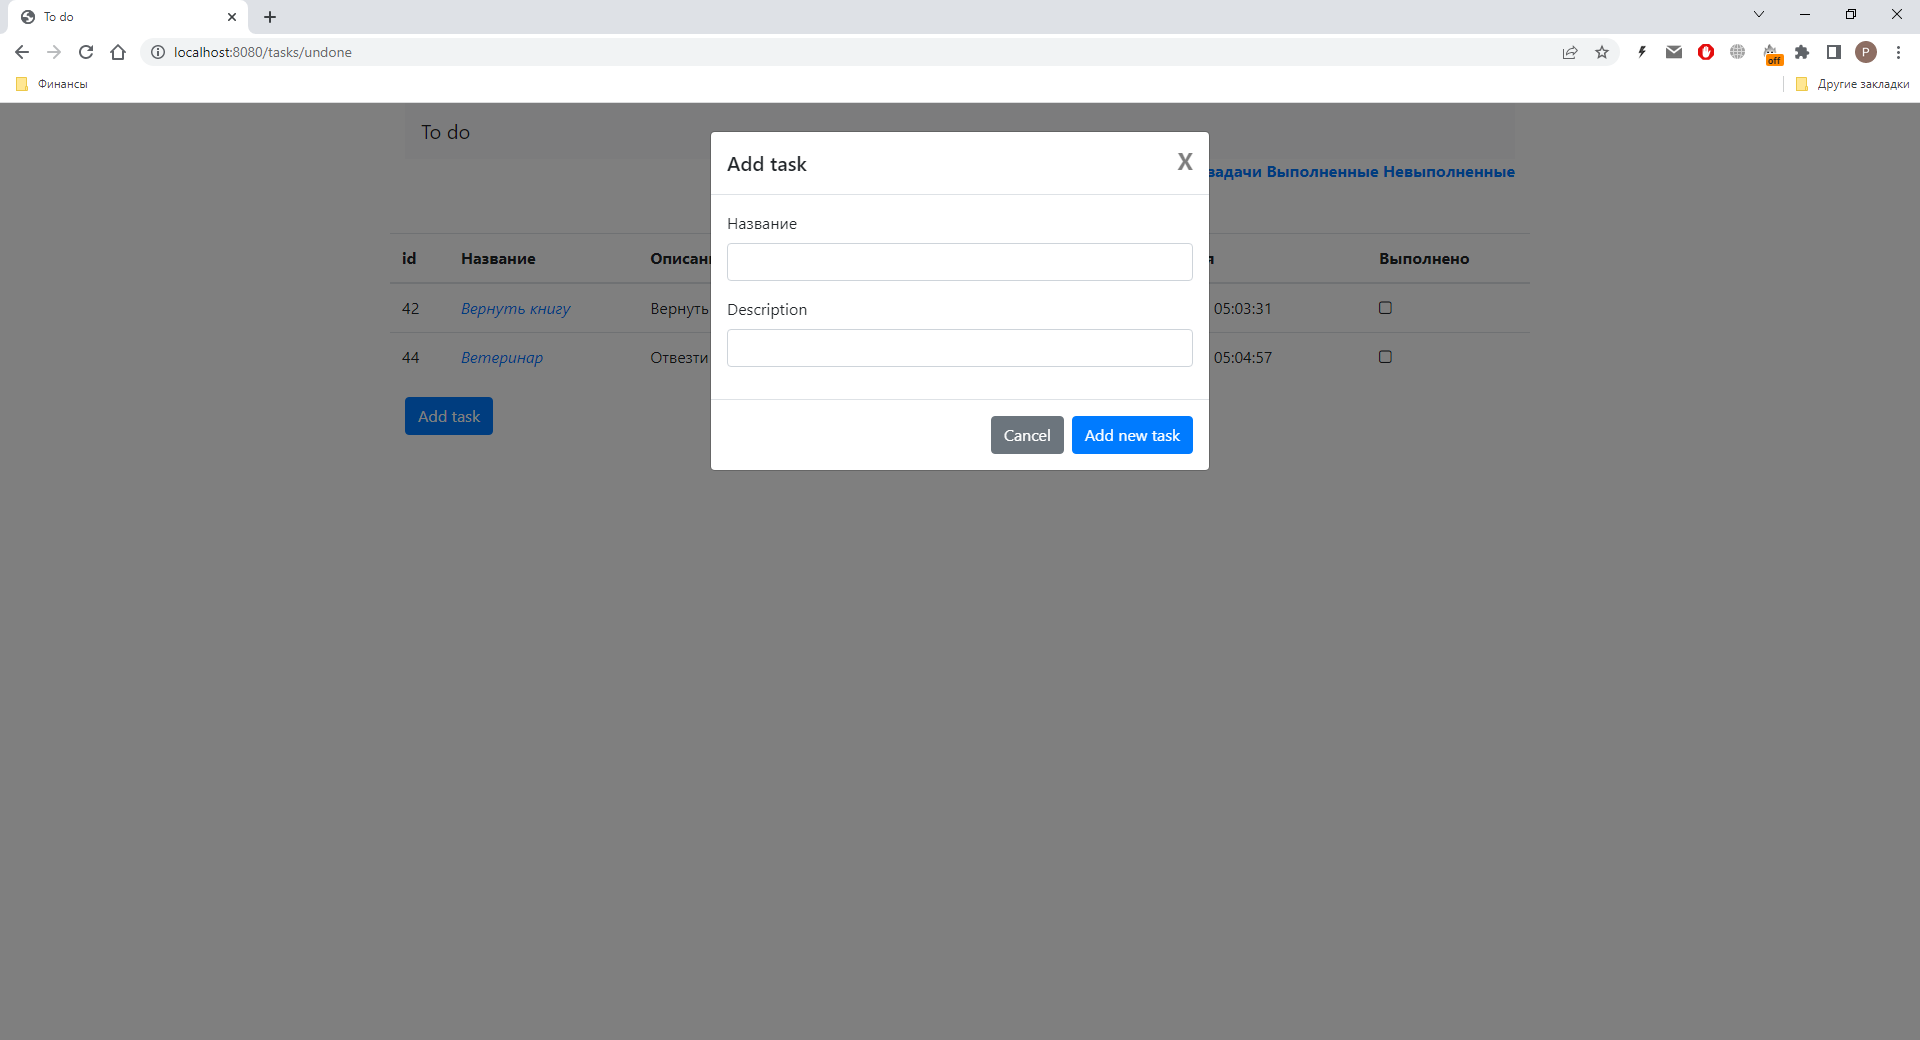
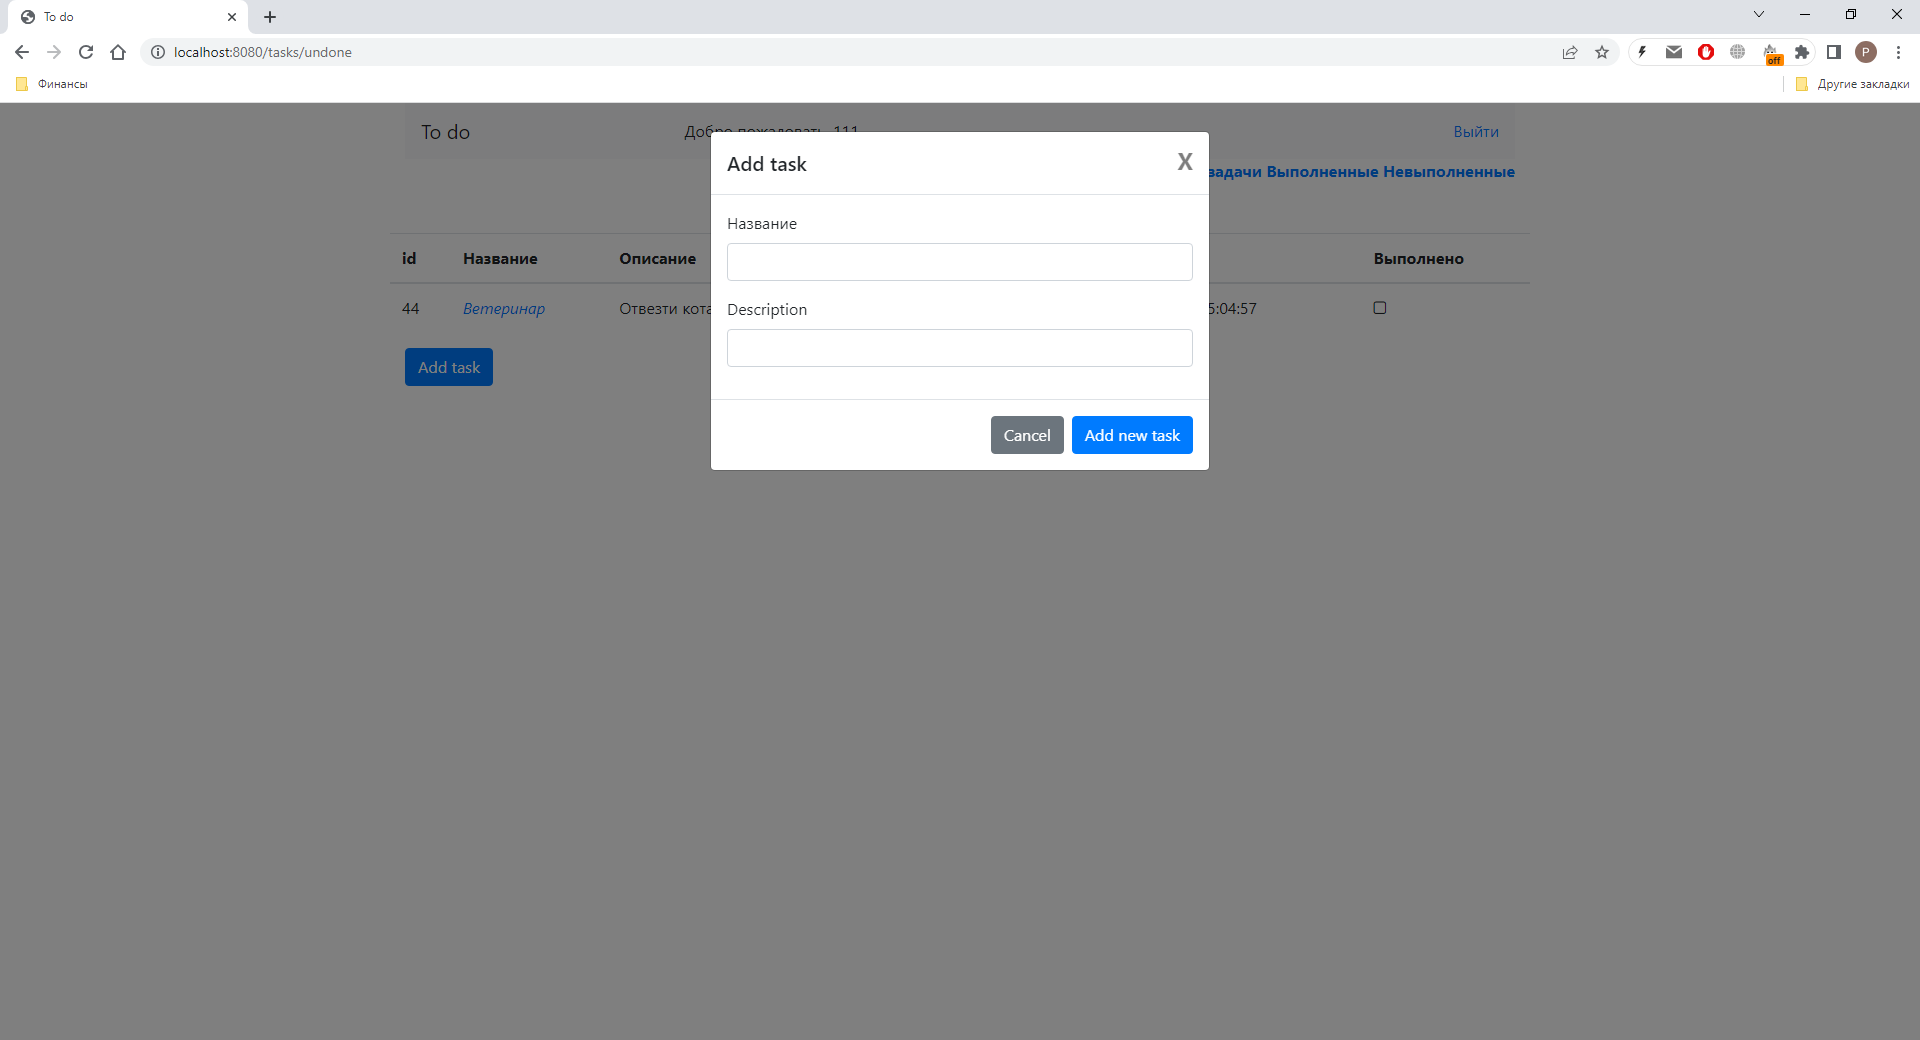
5. Аутентификация в проекте TODO [#504877 # [#504877]]

diff --git a/src/main/resources/templates/task/tasks.html b/src/main/resources/templates/task/tasks.html
@@ -95,11 +95,11 @@
                 <form th:action="@{/tasks/add}" method="post" enctype="multipart/form-data">
                     <div class="modal-body">
                         <div class="form-group">
-                            <label for="description">Название</label>
+                            <label for="title">Название</label>
                             <input type="text" class="form-control" name="title" id="title" required>
                         </div>
                         <div class="form-group">
-                            <label for="description">Description</label>
+                            <label for="description">Описание</label>
                             <input type="text" class="form-control" name="description" id="description">
                         </div>
                     </div>

diff --git a/src/main/resources/templates/user/registration.html b/src/main/resources/templates/user/registration.html
@@ -26,7 +26,7 @@
         <div class="card" style="width: 100%">
             <div class="card-header">Регистрация</div>
             <div class="card-body">
-                <form th:action="@{/users/add}" method="post" enctype="multipart/form-data">
+                <form th:action="@{/users/registration}" method="post" enctype="multipart/form-data">
                     <div class="form-group">
                         <label for="name">Имя</label>
                         <input type="text" class="form-control" id="name" name="name">

diff --git a/src/main/java/ru/job4j/todo/controller/UserController.java b/src/main/java/ru/job4j/todo/controller/UserController.java
@@ -25,10 +25,15 @@ public class UserController {
         return "user/registration";
     }
 
-    @PostMapping("/add")
-    public String registration(@ModelAttribute User user) {
-        userService.addUser(user);
-        return "redirect:/tasks/all";
+    @PostMapping("/registration")
+    public String registration(@ModelAttribute User user, Model model) {
+        boolean isAddedUser = userService.addUser(user);
+        if (!isAddedUser) {
+            model.addAttribute("message",
+                    "пользователь с таким именем или логином уже существует");
+            return "errors/error";
+        }
+        return "redirect:/users/login";
     }
 
     @GetMapping("/login")
@@ -53,10 +58,4 @@ public class UserController {
         session.invalidate();
         return "redirect:/tasks/all";
     }
-
-
-    //todo контроллер - это утилитный класс? (см. https://job4j.ru/profile/exercise/188/task-view/944)
-    //todo улучшить навигацию по страницам
-    //todo ошибка при обновлении задачи
-
 }

diff --git a/src/main/java/ru/job4j/todo/repository/UserRepository.java b/src/main/java/ru/job4j/todo/repository/UserRepository.java
@@ -34,13 +34,13 @@ public class UserRepository {
         Session session = sf.openSession();
         try {
             session.beginTransaction();
-            User user = session.createQuery("from User where login = :login " +
-                            "and password = :password", User.class)
+            User user = session.createQuery("from User where login = :login "
+                            + "and password = :password", User.class)
                     .setParameter("login", login)
                     .setParameter("password", password)
                     .getSingleResult();
             session.getTransaction().commit();
-            optional = optional.of(user);
+            optional = Optional.of(user);
         } catch (Exception e) {
             session.getTransaction().rollback();
         } finally {

diff --git a/src/main/java/ru/job4j/todo/controller/TaskController.java b/src/main/java/ru/job4j/todo/controller/TaskController.java
@@ -86,7 +86,7 @@ public class TaskController {
         if (taskService.updateTask(id, newTitle, newDescription)) {
             model.addAttribute("task", taskService.findTaskById(id));
             model.addAttribute(UtilUser.getUserFromSession(session));
-            return "tasks/task";
+            return "task/task";
         }
         model.addAttribute("message", "редактирование задачи в данный момент невозможно.");
         return "errors/error";

diff --git a/src/main/java/ru/job4j/todo/filter/AuthorizationFilter.java b/src/main/java/ru/job4j/todo/filter/AuthorizationFilter.java
@@ -15,6 +15,7 @@ import java.util.Set;
 @Order(1)
 public class AuthorizationFilter extends HttpFilter {
     private static final Set<String> MAPPINGS = Set.of("login", "registration", "all", "done", "undone");
+
     @Override
     protected void doFilter(HttpServletRequest request,
                             HttpServletResponse response,

diff --git a/src/main/java/ru/job4j/todo/service/TaskServiceImpl.java b/src/main/java/ru/job4j/todo/service/TaskServiceImpl.java
@@ -24,11 +24,6 @@ public class TaskServiceImpl implements TaskService {
     }
 
     @Override
-    public boolean updateTask(int id) {
-        return false;
-    }
-
-    @Override
     public List<Task> findAllTasks() {
         return taskRepository.findAllTasks();
     }

diff --git a/src/main/java/ru/job4j/todo/service/UserServiceImpl.java b/src/main/java/ru/job4j/todo/service/UserServiceImpl.java
@@ -9,7 +9,7 @@ import java.util.Optional;
 
 @Service
 @AllArgsConstructor
-public class UserServiceImpl implements UserService{
+public class UserServiceImpl implements UserService {
     private final UserRepository userRepository;
 
     @Override

diff --git a/src/main/java/ru/job4j/todo/service/TaskService.java b/src/main/java/ru/job4j/todo/service/TaskService.java
@@ -11,8 +11,6 @@ public interface TaskService {
 
     boolean deleteTask(int id);
 
-    boolean updateTask(int id);
-
     List<Task> findAllTasks();
 
     List<Task> findDoneTasks();

diff --git a/README.md b/README.md
@@ -5,6 +5,7 @@
 Реализован список задач с возможностью добавлять, удалять и редактировать задачи.
 Возможно 3 вида отображения задач: сделанные, несделанные, все задачи. Задачи состоят 
 из полей: название, описание, дата создания, статус выполнения.
+Возможность изменения задач доступна только зарегистрированным пользователям, без регистрации можно только просматривать задачи.
 
 Применяющиеся технологии: Java 17, Spring boot 2.7.3, Thymeleaf 3.0.15, Bootstrap (4.4.1) , Hibernate 5.6.11, Postgresql (42.3.1).
 
@@ -12,7 +13,7 @@
 База данных со списком задач создается на машине пользователя при первом запуске.
 
 Главное окно программы:
-![img_1.png](images/all.png)
+![](images/main.png)
 
 Список невыполненных задач:
 ![img.png](images/undone.png)
@@ -22,3 +23,6 @@
 
 Окно редактирования задачи:
 ![img_2.png](images/edit.png)
+
+Окно аутентификации:
+![](images/login.png)
